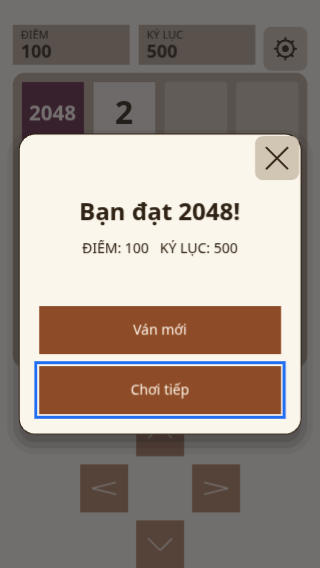
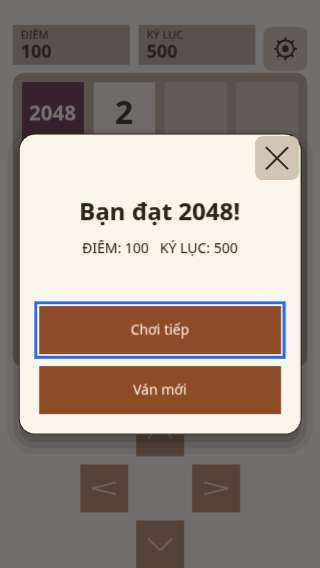
docs: cập nhật amend §12 (4) và số đo sau vòng sửa thứ hai của tầng a11y
Thứ tự và số điểm dừng Tab ở từng trạng thái, focus sau khi đóng Settings, nút
Đóng DOM, cổng mở Settings, nguyên nhân gốc của lỗi phím tính lặp kèm số đo
trước/sau; nói rõ element.click() mới đo bằng click() tổng hợp, chưa kiểm trên
VoiceOver/TalkBack.

Changed region(s): [[0.0938, 0.5088, 0.9062, 0.7482]]

diff --git a/docs/superpowers/specs/2026-10-08-2048-playables-design.md b/docs/superpowers/specs/2026-10-08-2048-playables-design.md
@@ -861,25 +861,44 @@ zoom 200 % và target ≥ 44 px đều đạt mà không phải tự dựng lạ
 >    `aria-hidden`. Focus ring `3px solid var(--focus)`, lệch 2 px (DesignSystem §B8) vẽ quanh nút
 >    DOM, tức quanh nút canvas đang nhìn thấy.
 > 4. **`pointer-events: none` trên mọi điều khiển DOM.** Chuột và cảm ứng đi xuyên xuống canvas, nên
->    một cú bấm chỉ có một nơi nhận (ô bấm của canvas); Enter / Space và `element.click()` của screen
->    reader không qua hit-test nên chỉ tới nút DOM. Để cả hai cùng nhận là hai action cho một lần bấm.
+>    một cú bấm chỉ có một nơi nhận (ô bấm của canvas); Enter / Space không qua hit-test nên chỉ tới
+>    nút DOM. Để cả hai cùng nhận là hai action cho một lần bấm. Với trình đọc màn hình: kích hoạt
+>    bằng `element.click()` cũng chỉ tới nút DOM — điều này **suy từ mã và đo bằng `click()` tổng
+>    hợp trong Chromium, CHƯA kiểm trên VoiceOver / TalkBack thật**. (Trình đọc nào kích hoạt bằng
+>    một cú chạm tổng hợp tại tâm phần tử thì cú chạm đó xuyên xuống đúng nút canvas bên dưới —
+>    cũng là suy luận, chưa đo.)
 > 5. **Ring ở mép màn hình.** Ring vươn ra ngoài nút 5 px, mà nút "xuống" của D-pad dán sát đáy
 >    viewport ở mọi bố cục xếp dọc. Hộp DOM lùi ĐÚNG cạnh chạm mép vào tối đa 5 px để ring đủ bốn
 >    cạnh (`fitRing`); ba cạnh kia trùng nút canvas. Vùng bấm của chuột / cảm ứng là ô bấm canvas
 >    48 px, không đổi. Vì vậy CSS không còn `min-width` / `min-height`: cỡ ≥ 44 / ≥ 48 px đến từ nút
 >    canvas và được kiểm ở test của view và của `placement.ts`.
-> 6. **Ô nhập cài đặt.** Bảng Settings MỞ: `input[type=range]` trên rãnh slider (rãnh đang vẽ × 44
->    px), hai checkbox trên hai toggle, `<select>` trên nút theme (canvas chỉ có MỘT nút xoay vòng ba
->    theme và hiện tên theme hiện tại — đúng giá trị `<select>` đang giữ; mũi tên lên/xuống đổi
->    theme, không dựng ba nút mới). Bảng ĐÓNG: canvas không vẽ bốn điều khiển đó ở đâu cả, nhưng
->    theo bảng trên chúng vẫn phải ở trong cây accessibility và thứ tự tab — khi đó chúng đứng trên
->    **bánh răng**, nên ring hiện quanh bánh răng thay vì rơi vào chỗ vô hình. `Settings.sync` chiếu
->    thay đổi từ ô nhập DOM lên hình vẽ (con trượt, dấu tick, nhãn theme) khi bảng đang mở.
-> 7. Không đổi: bẫy focus và trả focus của dialog, `inert` cho nền, `Esc` không `preventDefault()`,
+> 6. **Bảng Settings ở tầng DOM đi theo bảng của canvas** (`bridge.setSettingsOpen`, gọi qua
+>    `src/app/settings-panel.ts`). Bốn ô nhập và một nút "Đóng" nằm chung một `role="group"` tên
+>    "Cài đặt".
+>    - Bảng MỞ: `input[type=range]` trên rãnh slider (rãnh đang vẽ × 44 px), hai checkbox trên hai
+>      toggle, `<select>` trên nút theme (canvas chỉ có MỘT nút xoay vòng ba theme và hiện tên theme
+>      hiện tại — đúng giá trị `<select>` đang giữ; mũi tên lên/xuống đổi theme, không dựng ba nút
+>      mới), nút "Đóng" DOM trên nút Đóng của canvas và đi cùng đường với nó (người dùng trình đọc
+>      màn hình cảm ứng không có `Esc`). Focus chuyển vào điều khiển đầu của bảng; nền (bàn cờ,
+>      D-pad, nút Cài đặt) bị `inert` bằng cùng một hàm với dialog. Thứ tự Tab: Âm thanh → Rung →
+>      Giảm chuyển động → Giao diện → Đóng. `Settings.sync` chiếu thay đổi từ ô nhập DOM lên hình vẽ
+>      (con trượt, dấu tick, nhãn theme).
+>    - Bảng ĐÓNG: canvas không vẽ các điều khiển đó ở đâu cả. Bốn ô nhập **rời thứ tự Tab**
+>      (`tabindex="-1"`) nhưng vẫn ở trong cây accessibility với đủ tên, vai trò, trạng thái, đúng
+>      bảng ở trên; hộp của chúng đậu trên bánh răng. Nút "Đóng" thì `hidden`. Lúc chơi còn 5 điểm
+>      dừng Tab: bốn nút D-pad và nút Cài đặt.
+>    - Đóng bằng bất kỳ đường nào (nút Đóng canvas, nút Đóng DOM, `Esc`): focus đang ở trong bảng
+>      thì về nút Cài đặt NGAY lúc bảng vào `'closing'`, không đợi hết 800 ms mờ dần.
+>    - Mở có MỘT cổng cho cả bánh răng canvas lẫn nút Cài đặt DOM (`settingsMayOpen`): không mở khi
+>      pause, khi overlay còn chiếm màn hình (kể cả `'closing'`), hay khi bảng chưa về `'closed'`.
+> 7. Nút hành động của dialog vẽ từ trên xuống theo ĐÚNG thứ tự `buttonLabels` ("Chơi tiếp" trên,
+>    "Ván mới" dưới) — trước đó vẽ ngược, nên Tab đi từ dưới lên. Nút nhận focus khi dialog mở vẫn
+>    là "Chơi tiếp"; hành động phá huỷ không thành mặc định.
+> 8. Không đổi: bẫy focus và trả focus của dialog, `inert` cho nền, `Esc` không `preventDefault()`,
 >    guard bàn phím cho ô nhập DOM, hai vùng live, vòng đời ba trạng thái của overlay.
 >
 > Dòng "Focus ring" và "Zoom 200 % … DOM a11y không bị cắt" ở §12.3 đọc theo quy tắc này. Giới hạn
-> đã biết: nút ✕ của dialog và nút "Đóng" của Settings chỉ có trên canvas (bàn phím dùng `Esc`); khi
+> đã biết: nút ✕ của dialog chỉ có trên canvas (bàn phím dùng `Esc`); khi
 > D-pad canvas tự ẩn (`dpad: 'auto'` sau cú vuốt, hoặc `'off'`) bốn nút DOM vẫn ở chỗ D-pad, nên
 > ring ôm một ô trống. Số đo trên trình duyệt thật: `docs/verification-report.md` mục 7.
 
